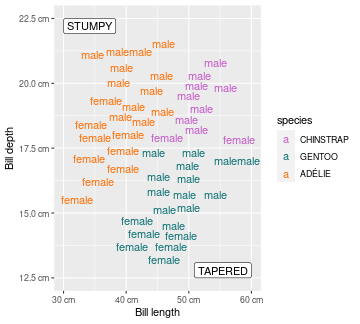
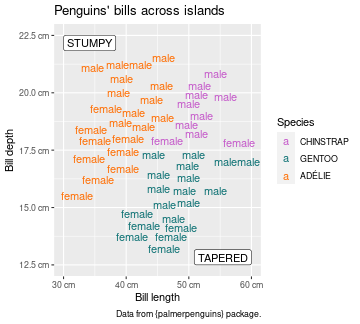
Reordered slides to include assessment placeholders

diff --git a/index.html b/index.html
@@ -257,6 +257,31 @@ A `ggplot()` is made up of _layers_: &lt;small&gt;&lt;small&gt;([check your base
 
 ![](img/concept-map-2.PNG)
 
+
+---
+class: inverse, middle, center
+
+# Step-by-Step guesses and exploration
+
+Please, open [**THIS**](https://corradolanera.shinyapps.io/text-gg-checks/#section-step-by-step-checks) interactive tutorial.
+
+
+You will be asked to explore it one stage at time.
+
+&lt;br&gt;&lt;br&gt;&lt;br&gt;
+
+<div class="countdown" id="timer_5f5e338c" style="bottom:35%;left:34%;" data-audio="true" data-warnwhen="10">
+<code class="countdown-time"><span class="countdown-digits minutes">02</span><span class="countdown-digits colon">:</span><span class="countdown-digits seconds">00</span></code>
+</div>
+
+&lt;br&gt;&lt;br&gt;&lt;br&gt;
+You have an entire whole minute for each stage. 
+
+Are you ready? Let's start with the first two!
+&lt;br&gt;&lt;br&gt;&lt;br&gt;&lt;br&gt;
+
+
+
 ---
 name: gg-review
 background-image: url(img/lter_penguins.png)
@@ -265,7 +290,7 @@ background-size: 35%
 
 # Text in {ggplot2}
 
-A `ggplot()` is made up of _layers_: &lt;small&gt;&lt;small&gt;([step-by-step checks](https://corradolanera.shinyapps.io/text-gg-checks/#section-step-by-step-checks))&lt;/small&gt;&lt;/small&gt;
+A `ggplot()` is made up of _layers_:
 
 .left-plot[
 1. **Data**
@@ -313,7 +338,7 @@ background-size: 35%
 
 # Text in {ggplot2}
 
-A `ggplot()` is made up of _layers_: &lt;small&gt;&lt;small&gt;([step-by-step checks](https://corradolanera.shinyapps.io/text-gg-checks/#section-step-by-step-checks))&lt;/small&gt;&lt;/small&gt;
+A `ggplot()` is made up of _layers_: 
 
 .left-plot[
 1. Data
@@ -348,6 +373,27 @@ penguins %&gt;%
 ![](img/concept-map-3.PNG)
 
 
+---
+class: inverse, middle, center
+
+# Step-by-Step guesses and exploration
+
+Return to the [**TUTORIAL**](https://corradolanera.shinyapps.io/text-gg-checks/#section-step-by-step-checks) for the third stage about `geom_*()`s!
+
+
+&lt;br&gt;&lt;br&gt;&lt;br&gt;
+
+<div class="countdown" id="timer_5f5e312a" style="bottom:35%;left:34%;" data-audio="true" data-warnwhen="10">
+<code class="countdown-time"><span class="countdown-digits minutes">01</span><span class="countdown-digits colon">:</span><span class="countdown-digits seconds">00</span></code>
+</div>
+
+&lt;br&gt;&lt;br&gt;&lt;br&gt;
+
+Are you ready? Let's go!
+&lt;br&gt;&lt;br&gt;&lt;br&gt;&lt;br&gt;
+
+
+
 
 ---
 name: gg-review
@@ -357,7 +403,7 @@ background-size: 35%
 
 # Text in {ggplot2}
 
-A `ggplot()` is made up of _layers_: &lt;small&gt;&lt;small&gt;([step-by-step checks](https://corradolanera.shinyapps.io/text-gg-checks/#section-step-by-step-checks))&lt;/small&gt;&lt;/small&gt;
+A `ggplot()` is made up of _layers_: 
 
 .left-plot[
 1. Data
@@ -385,12 +431,31 @@ penguins %&gt;%
 
 ---
 
-# Text in a plot: `annotation()`s
+# Text in a plot: `annotate()`s
 
 &lt;br&gt;
 
 ![](img/concept-map-4.PNG)
 
+
+---
+class: inverse, middle, center
+
+# Step-by-Step guesses and exploration
+
+Return to the [**TUTORIAL**](https://corradolanera.shinyapps.io/text-gg-checks/#section-step-by-step-checks) for the fourth stage about `annotate()`!
+
+
+&lt;br&gt;&lt;br&gt;&lt;br&gt;
+
+<div class="countdown" id="timer_5f5e3415" style="bottom:35%;left:34%;" data-audio="true" data-warnwhen="10">
+<code class="countdown-time"><span class="countdown-digits minutes">01</span><span class="countdown-digits colon">:</span><span class="countdown-digits seconds">00</span></code>
+</div>
+
+&lt;br&gt;&lt;br&gt;&lt;br&gt;
+
+Are you ready? Let's go!
+&lt;br&gt;&lt;br&gt;&lt;br&gt;&lt;br&gt;
 
 
 ---
@@ -401,7 +466,7 @@ background-size: 35%
 
 # Text in {ggplot2}
 
-A `ggplot()` is made up of _layers_: &lt;small&gt;&lt;small&gt;([step-by-step checks](https://corradolanera.shinyapps.io/text-gg-checks/#section-step-by-step-checks))&lt;/small&gt;&lt;/small&gt;
+A `ggplot()` is made up of _layers_: 
 
 .left-plot[
 1. Data
@@ -434,11 +499,33 @@ penguins %&gt;%
 
 ---
 
-# Text in a plot: legends' `labs()`
+# Text in a plot: scales and legends
 
 &lt;br&gt;
 
 ![](img/concept-map-5.PNG)
+
+
+---
+class: inverse, middle, center
+
+# Step-by-Step guesses and exploration
+
+Return to the [**TUTORIAL**](https://corradolanera.shinyapps.io/text-gg-checks/#section-step-by-step-checks) for the fifth stage about `scale_&lt;AES&gt;_&lt;TYPE&gt;()`s, legends, and `labs()`!
+
+
+&lt;br&gt;&lt;br&gt;&lt;br&gt;
+
+<div class="countdown" id="timer_5f5e3048" style="bottom:35%;left:34%;" data-audio="true" data-warnwhen="10">
+<code class="countdown-time"><span class="countdown-digits minutes">01</span><span class="countdown-digits colon">:</span><span class="countdown-digits seconds">00</span></code>
+</div>
+
+&lt;br&gt;&lt;br&gt;&lt;br&gt;
+
+Are you ready? Let's go!
+&lt;br&gt;&lt;br&gt;&lt;br&gt;&lt;br&gt;
+
+
 
 
 
@@ -450,7 +537,7 @@ background-size: 35%
 
 # Text in {ggplot2}
 
-A `ggplot()` is made up of _layers_: &lt;small&gt;&lt;small&gt;([step-by-step checks](https://corradolanera.shinyapps.io/text-gg-checks/#section-step-by-step-checks))&lt;/small&gt;&lt;/small&gt;
+A `ggplot()` is made up of _layers_: 
 
 .left-plot[
 1. Data
@@ -486,7 +573,10 @@ penguins %&gt;%
   scale_colour_manual(
     values = c("#C55ACA", "#0E7274", "#FF6F04"),
     breaks = c("Chinstrap", "Gentoo", "Adelie"),
-*   labels = c("CHINSTRAP", "GENTOO", "ADÉLIE"))
+*   labels = c("CHINSTRAP", "GENTOO", "ADÉLIE")) +
+* labs(title = "Penguins' bills across islands",
+*      caption = "Data from {palmerpenguins} package.",
+*      colour = "Species")
 ```
 ]
 
@@ -502,6 +592,27 @@ penguins %&gt;%
 
 
 ---
+class: inverse, middle, center
+
+# Step-by-Step guesses and exploration
+
+Return to the [**TUTORIAL**](https://corradolanera.shinyapps.io/text-gg-checks/#section-step-by-step-checks) for the sixth stage about `facet_*()`s!
+
+
+&lt;br&gt;&lt;br&gt;&lt;br&gt;
+
+<div class="countdown" id="timer_5f5e3145" style="bottom:35%;left:34%;" data-audio="true" data-warnwhen="10">
+<code class="countdown-time"><span class="countdown-digits minutes">01</span><span class="countdown-digits colon">:</span><span class="countdown-digits seconds">00</span></code>
+</div>
+
+&lt;br&gt;&lt;br&gt;&lt;br&gt;
+
+Are you ready? Let's go!
+&lt;br&gt;&lt;br&gt;&lt;br&gt;&lt;br&gt;
+
+
+
+---
 name: gg-review
 background-image: url(img/lter_penguins.png)
 background-position: 90% 5%
@@ -509,7 +620,7 @@ background-size: 35%
 
 # Text in {ggplot2}
 
-A `ggplot()` is made up of _layers_: &lt;small&gt;&lt;small&gt;([step-by-step checks](https://corradolanera.shinyapps.io/text-gg-checks/#section-step-by-step-checks))&lt;/small&gt;&lt;/small&gt;
+A `ggplot()` is made up of _layers_: 
 
 .left-plot[
 1. Data
@@ -546,6 +657,9 @@ penguins %&gt;%
     values = c("#C55ACA", "#0E7274", "#FF6F04"),
     breaks = c("Chinstrap", "Gentoo", "Adelie"),
     labels = c("CHINSTRAP", "GENTOO", "ADÉLIE")) +
+  labs(title = "Penguins' bills across islands",
+       caption = "Data from {palmerpenguins} package.",
+       colour = "Species") + 
 * facet_grid(island~., labeller = "label_both")
 ```
 ]
@@ -561,6 +675,27 @@ penguins %&gt;%
 
 
 ---
+class: inverse, middle, center
+
+# Step-by-Step guesses and exploration
+
+Return to the [**TUTORIAL**](https://corradolanera.shinyapps.io/text-gg-checks/#section-step-by-step-checks) for the seventh stage about `theme()`s!
+
+
+&lt;br&gt;&lt;br&gt;&lt;br&gt;
+
+<div class="countdown" id="timer_5f5e30a2" style="bottom:35%;left:34%;" data-audio="true" data-warnwhen="10">
+<code class="countdown-time"><span class="countdown-digits minutes">01</span><span class="countdown-digits colon">:</span><span class="countdown-digits seconds">00</span></code>
+</div>
+
+&lt;br&gt;&lt;br&gt;&lt;br&gt;
+
+Are you ready? Let's go!
+&lt;br&gt;&lt;br&gt;&lt;br&gt;&lt;br&gt;
+
+
+
+---
 name: gg-review
 background-image: url(img/lter_penguins.png)
 background-position: 90% 5%
@@ -569,7 +704,7 @@ background-size: 35%
 
 # Text in {ggplot2}
 
-A `ggplot()` is made up of _layers_: &lt;small&gt;&lt;small&gt;([step-by-step checks](https://corradolanera.shinyapps.io/text-gg-checks/#section-step-by-step-checks))&lt;/small&gt;&lt;/small&gt;
+A `ggplot()` is made up of _layers_: 
 
 .left-plot[
 1. Data
@@ -605,10 +740,10 @@ penguins %&gt;%
     values = c("#C55ACA", "#0E7274", "#FF6F04"),
     breaks = c("Chinstrap", "Gentoo", "Adelie"),
     labels = c("CHINSTRAP", "GENTOO", "ADÉLIE")) +
-  facet_grid(island~., labeller = "label_both") +
   labs(title = "Penguins' bills across islands",
        caption = "Data from {palmerpenguins} package.",
-*      colour = "Species") +
+       colour = "Species") +
+  facet_grid(island~., labeller = "label_both") +
 * theme(plot.title = element_text(size = 24),
 *       legend.text = element_text(family = "mono"),
 *       axis.text = element_text(colour = "blue"),
@@ -627,7 +762,7 @@ class: inverse, middle, center
 Click [HERE](https://corradolanera.shinyapps.io/text-gg-checks/#section-final-test)
 to test your brand-new skills in managing text in `ggplot()`s, and the efficacy of this class
 
-<div class="countdown" id="timer_5f5d7673" style="bottom:35%;left:34%;" data-audio="true" data-warnwhen="180">
+<div class="countdown" id="timer_5f5e32d2" style="bottom:35%;left:34%;" data-audio="true" data-warnwhen="180">
 <code class="countdown-time"><span class="countdown-digits minutes">15</span><span class="countdown-digits colon">:</span><span class="countdown-digits seconds">00</span></code>
 </div>
 
